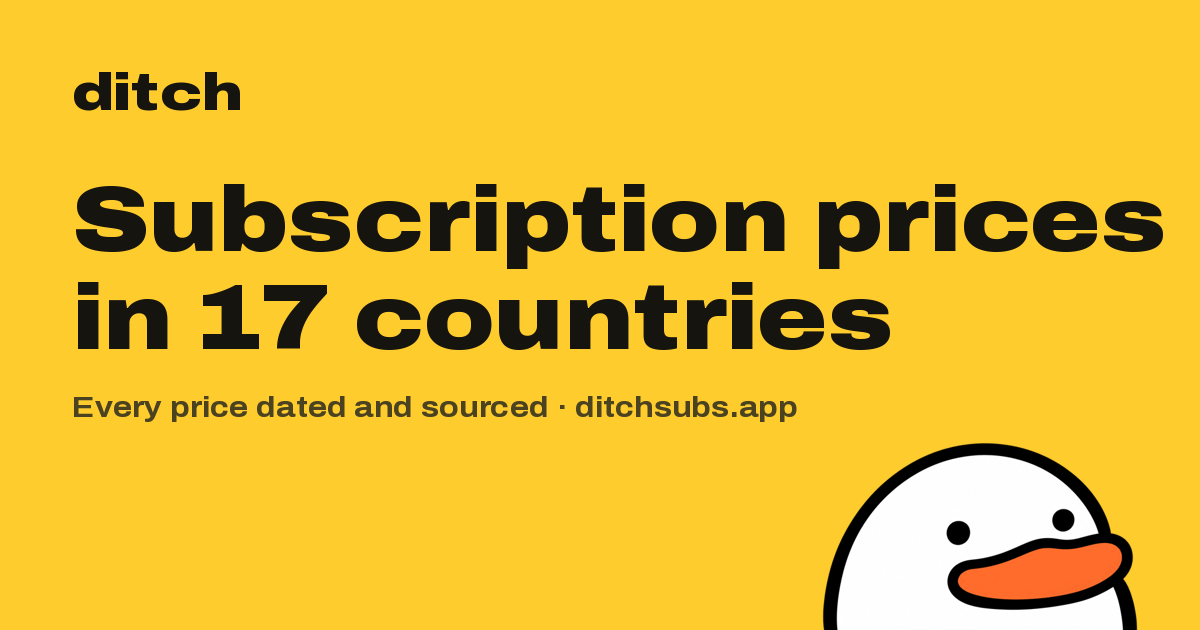
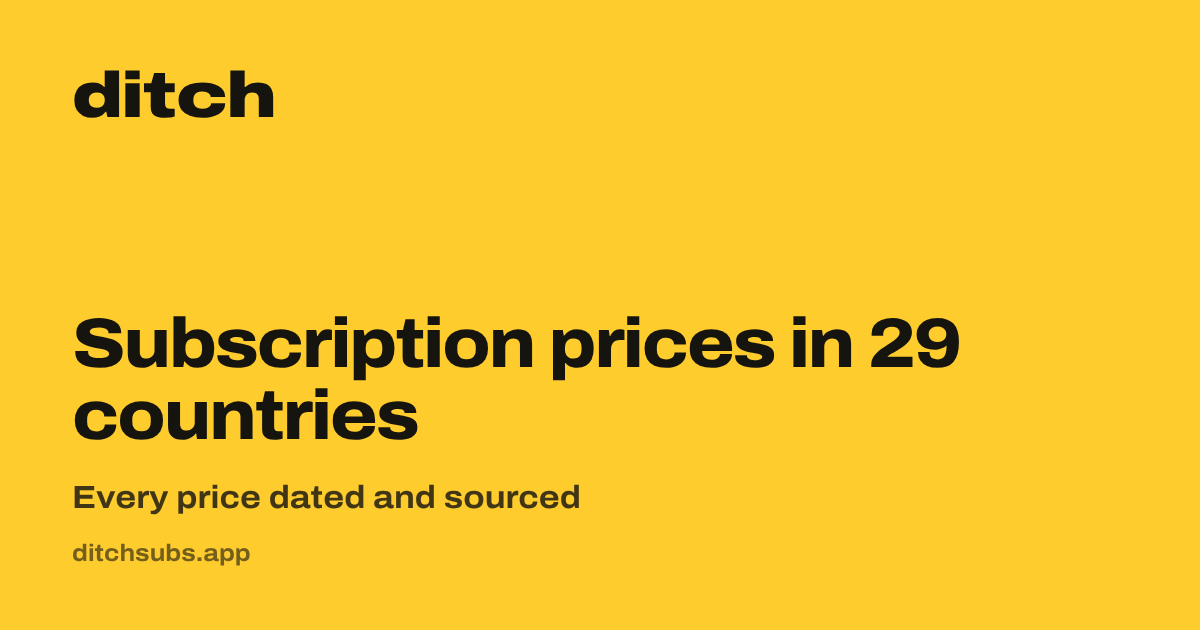
Share image per page, IndexNow, no half-faded text on load
- scripts/og-cards.ts + og.mjs draw a 1200x630 card per comparison, price page and guide from the site's own data
- Pages point og:image and twitter:image at their own card; a test checks every page has one
- IndexNow key + submit script (192 URLs accepted)
- Blocks already on screen skip the scroll fade; hub pages don't fade (Lighthouse accessibility 100)

Claude-Session: https://claude.ai/code/session_01Q8GFjWCZXwnj2nAcxjTkxh

diff --git a/web/scripts/og-cards.ts b/web/scripts/og-cards.ts
@@ -1,0 +1,38 @@
+// Lists one share card per page (comparisons, price pages, cancel guides) for scripts/og.mjs to draw.
+// Run: npx tsx scripts/og-cards.ts > /tmp/cards.json (reads the same data as the site, so numbers always match).
+import { COUNTRIES, priceHubServices, publishedGuides, serviceById, slugOf, verifiedPrices, isExtraPlan, hasLogo } from '../src/lib/data';
+import { formatMoney } from '../src/lib/money';
+import { SERVICE_TOOLS, planLabel } from '../src/lib/tools';
+
+type Card = { file: string; logos: { id: string; logo: boolean; color: string; mono: string }[]; title: string; sub: string; foot: string };
+const lg = (id: string) => { const s = serviceById(id); return { id, logo: hasLogo(id), color: s?.color ?? '#6B6559', mono: s?.mono ?? s?.name.slice(0, 1) ?? '?' }; };
+const us = (id: string) => verifiedPrices(id).find((r) => r.country === 'US');
+const money = (a: number, cur: string, c: string) => formatMoney(a, cur, { country: c });
+const cards: Card[] = [];
+
+for (const t of SERVICE_TOOLS.filter((x) => x.kind === 'vs' || x.kind === 'tiers')) {
+  let sub = '';
+  if (t.kind === 'tiers' && t.s) {
+    const r = us(t.s)!;
+        const a = r.plans.find((p) => p.id === t.ap)!, b = r.plans.find((p) => p.id === t.bp)!;
+    const short = (n: string) => n.replace(/\s*\((monthly|yearly)\)/i, '');
+    sub = `US: ${short(a.name)} ${money(a.amountMinor, r.currency, 'US')} · ${short(b.name)} ${money(b.amountMinor, r.currency, 'US')} a month`;
+  } else if (t.a && t.b) {
+    const pick = (id: string, plan?: string) => { const r = us(id)!; const p = r.plans.find((x) => x.id === plan) ?? r.plans.find((x) => x.default) ?? r.plans[0]; return `${planLabel(serviceById(id)!.name, p.name)} ${money(p.amountMinor, r.currency, 'US')}`; };
+    sub = `US: ${pick(t.a, t.ap)} · ${pick(t.b, t.bp)} a month`;
+  }
+  cards.push({ file: `c/${t.slug}`, logos: (t.kind === 'tiers' ? [t.s!] : [t.a!, t.b!]).map(lg), title: t.name, sub, foot: 'Price and what you get, from each company’s own page' });
+}
+for (const s of priceHubServices()) {
+  const rows = verifiedPrices(s.id).map((r) => ({ ...r, plans: r.plans.filter((p) => !isExtraPlan(s.id, p)) })).filter((r) => r.plans.length);
+  const r = rows.find((x) => x.country === 'US') ?? rows[0];
+  const lo = [...r.plans].filter((p) => p.cycle === 'monthly' && !/student/i.test(p.name)).sort((a, b) => a.amountMinor - b.amountMinor)[0] ?? r.plans[0];
+  const where = r.country === 'US' ? 'in the US' : `in ${COUNTRIES.find((c) => c.code === r.country)?.name}`;
+  cards.push({ file: `p/${slugOf(s.id)}`, logos: [lg(s.id)], title: `${s.name} prices 2026`, sub: `From ${money(lo.amountMinor, r.currency, r.country)} ${lo.cycle === 'yearly' ? 'a year' : 'a month'} ${where}${rows.length > 1 ? ` · ${rows.length} countries` : ''}`, foot: 'Every price dated and sourced' });
+}
+for (const g of publishedGuides()) {
+  cards.push({ file: `g/${slugOf(g.id)}`, logos: [lg(g.id)], title: `How to cancel ${g.name.replace(/\s*\(.*\)$/, '')}`, sub: 'The official steps, checked and dated', foot: 'Every step from the official help page' });
+}
+cards.push({ file: 'prices', logos: [], title: `Subscription prices in ${COUNTRIES.length} countries`, sub: 'Every price dated and sourced', foot: '' });
+cards.push({ file: 'compare', logos: ['chatgpt-plus', 'claude-pro', 'netflix', 'spotify'].map(lg), title: 'Compare subscriptions', sub: 'Price and what you get, side by side', foot: '' });
+process.stdout.write(JSON.stringify(cards));

diff --git a/web/src/app/tools/[slug]/page.tsx b/web/src/app/tools/[slug]/page.tsx
@@ -7,7 +7,7 @@ import { WhatYouGet } from '@/components/WhatYouGet';
 import { formatMoney } from '@/lib/money';
 import { inCountry, serviceById, verifiedPrices } from '@/lib/data';
 import { allPoints, countryList, countryName, planLabel, SERVICE_TOOLS, yearlyPlanId, type Pt } from '@/lib/tools';
-import { fitDesc, pageTitle, og } from '@/lib/site';
+import { fitDesc, pageTitle, og, shareImage } from '@/lib/site';
 import { COUNTRIES } from '@/lib/data';
 
 export function generateStaticParams() {
@@ -20,7 +20,14 @@ export async function generateMetadata({ params }: PageProps<'/tools/[slug]'>): 
   const t = tool((await params).slug);
   if (!t) return {};
   const ex = example(t, allPoints());
-  return { title: pageTitle(t.meta), description: fitDesc(ex ?? t.desc, t.kind === 'vs' || t.kind === 'tiers' ? (t.facts?.length ? 'What each plan includes, from each company’s own page.' : 'Every plan side by side, for your country.') : `Free, with prices for ${COUNTRIES.length} countries.`, 'Prices come from each service’s own page.', 'Runs in your browser.'), alternates: { canonical: `/tools/${t.slug}` }, openGraph: og(`/tools/${t.slug}`) };
+  return { title: pageTitle(t.meta), description: fitDesc(ex ?? t.desc, t.kind === 'vs' || t.kind === 'tiers' ? (t.facts?.length ? 'What each plan includes, from each company’s own page.' : 'Every plan side by side, for your country.') : `Free, with prices for ${COUNTRIES.length} countries.`, 'Prices come from each service’s own page.', 'Runs in your browser.'), alternates: { canonical: `/tools/${t.slug}` }, ...pairShare(t) };
+}
+
+/** Comparisons get their own share card (logos + US prices); other tools use the site card. */
+function pairShare(t: (typeof SERVICE_TOOLS)[number]) {
+  if (t.kind !== 'vs' && t.kind !== 'tiers') return { openGraph: og(`/tools/${t.slug}`) };
+  const { images, twitter } = shareImage(`c/${t.slug}`, `${t.name}: price and what you get`, 'compare');
+  return { openGraph: { ...og(`/tools/${t.slug}`, 'compare'), images }, twitter };
 }
 
 const m = (p: Pt, a = p.a) => formatMoney(a, p.cur, { country: p.c });

diff --git a/web/src/app/prices/[slug]/page.tsx b/web/src/app/prices/[slug]/page.tsx
@@ -11,7 +11,7 @@ import { PriceGrid, type GridCol, type GridRow } from '@/components/PriceGrid';
 import { priceText } from '@/lib/priceText';
 import { COUNTRIES, COUNTRY, dateRange, inCountry, priceChanges, defaultPlan, formatDate, host, guideById, isAppStorePrice, isExtraPlan, neighbours, priceHubServices, pubDates, serviceById, verifiedPrices, type PriceRow, idOf, inWhere, slugOf } from '@/lib/data';
 import { CYCLE_WORD, formatMoney, monthlyMinor } from '@/lib/money';
-import { COMPANY, SITE, SUPPORT_EMAIL, fitDesc, pageTitle } from '@/lib/site';
+import { COMPANY, SITE, SUPPORT_EMAIL, fitDesc, pageTitle, shareImage } from '@/lib/site';
 import { JsonLd } from '@/components/JsonLd';
 
 export function generateStaticParams() {
@@ -118,12 +118,13 @@ export async function generateMetadata({ params }: PageProps<'/prices/[slug]'>):
   const rows = core(id);
   if (!s || !priceHubServices().some((x) => x.id === s.id)) return {};
   const latest = rows.map((r) => r.checked).sort().pop()!;
+  const share = shareImage(`p/${slugOf(s.id)}`, `${s.name} prices ${latest.slice(0, 4)}`, 'prices');
   return {
     title: pageTitle(titleFor(s.name, latest.slice(0, 4), rows)),
     description: fitDesc(`${summary(s.name, rows)} Main plans ${inWhere(rows)}, checked ${dateRange(rows.map((r) => r.checked))}.`, `Every price from ${s.name}’s own page.`, guideById(s.id) ? `Plus how to cancel ${s.name}.` : ''),
     alternates: { canonical: `/prices/${slugOf(s.id)}` },
-    openGraph: { title: `${s.name} prices ${inWhere(rows)}`, url: `/prices/${slugOf(s.id)}`, type: 'article', siteName: 'Ditch: Subscription Tracker', locale: 'en_US', images: [{ url: '/og/prices.png', width: 1200, height: 630, alt: `Subscription prices in ${COUNTRIES.length} countries` }] },
-    twitter: { card: 'summary_large_image', images: ['/og/prices.png'] },
+    openGraph: { title: `${s.name} prices ${inWhere(rows)}`, url: `/prices/${slugOf(s.id)}`, type: 'article', siteName: 'Ditch: Subscription Tracker', locale: 'en_US', images: share.images },
+    twitter: share.twitter,
   };
 }
 

diff --git a/web/src/lib/site.ts b/web/src/lib/site.ts
@@ -1,14 +1,26 @@
+import OG_LIST from '@/data/og.json';
 export const SITE = 'https://ditchsubs.app';
 export const BRAND = 'Ditch: Subscription Tracker';
 
 /** Open Graph for a page: its own og:url plus the site defaults (a page's openGraph replaces the layout's, so this carries them). */
-export const og = (path: string, image: 'home' | 'cancel' | 'prices' = 'home') => ({
+const OG_BASE: Record<string, string> = { home: '/og/home.png', cancel: '/og/cancel.png', prices: '/og/prices.jpg', compare: '/og/compare.jpg' };
+export const og = (path: string, image: 'home' | 'cancel' | 'prices' | 'compare' = 'home') => ({
   url: path,
   siteName: 'Ditch: Subscription Tracker',
   type: 'website' as const,
   locale: 'en_US',
-  images: [{ url: `/og/${image}.png`, width: 1200, height: 630, alt: 'Ditch: Subscription Tracker. Ditch it before it renews.' }],
+  images: [{ url: OG_BASE[image], width: 1200, height: 630, alt: 'Ditch: Subscription Tracker. Ditch it before it renews.' }],
 });
+
+/**
+ * A page's own share image (Nov 15, SEO skill: a unique 1200×630 card per page), drawn by scripts/og.mjs with the
+ * page's real logos and prices. Falls back to the section card if the image hasn't been drawn yet.
+ * Returns both the Open Graph and the X (Twitter) image, so every app shows the same card.
+ */
+export function shareImage(file: string, alt: string, fallback: 'home' | 'cancel' | 'prices' | 'compare') {
+  const url = (OG_LIST as string[]).includes(file) ? `/og/${file}.jpg` : OG_BASE[fallback];
+  return { images: [{ url, width: 1200, height: 630, alt }], twitter: { card: 'summary_large_image' as const, images: [url] } };
+}
 
 /** Meta descriptions: the first sentence always, then each extra sentence only while the whole stays within 160 characters. */
 export const fitDesc = (first: string, ...more: string[]) => more.filter(Boolean).reduce((acc, p) => (acc.length + 1 + p.length <= 160 ? `${acc} ${p}` : acc), first);

diff --git a/web/src/app/cancel/[slug]/page.tsx b/web/src/app/cancel/[slug]/page.tsx
@@ -11,7 +11,7 @@ import { GuideFeedback } from '@/components/guide/GuideFeedback';
 import { PayTabs, type PayTab } from '@/components/guide/PayTabs';
 import { StepArt, stepUrl, tapLabel } from '@/components/guide/StepArt';
 import { APPLE_SOURCE, formatDate, freshness, guideById, neighbours, priceFor, priceHubServices, pubDates, publicNotes, publishedGuides, serviceById, idOf, slugOf } from '@/lib/data';
-import { COMPANY, SITE, SUPPORT_EMAIL, pageTitle } from '@/lib/site';
+import { COMPANY, SITE, SUPPORT_EMAIL, pageTitle, shareImage } from '@/lib/site';
 import { JsonLd } from '@/components/JsonLd';
 
 
@@ -48,8 +48,8 @@ export async function generateMetadata({ params }: PageProps<'/cancel/[slug]'>):
     title: guideTitle(g),
     description: desc.length > 158 ? `${desc.slice(0, 155).replace(/\s+\S*$/, '')}…` : desc,
     alternates: { canonical: `/cancel/${slugOf(g.id)}` },
-    openGraph: { title: `How to cancel ${g.name}`, url: `/cancel/${slugOf(g.id)}`, type: 'article', siteName: 'Ditch: Subscription Tracker', locale: 'en_US', images: [{ url: '/og/cancel.png', width: 1200, height: 630, alt: 'How to cancel any subscription' }] },
-    twitter: { card: 'summary_large_image', images: ['/og/cancel.png'] },
+    openGraph: { title: `How to cancel ${g.name}`, url: `/cancel/${slugOf(g.id)}`, type: 'article', siteName: 'Ditch: Subscription Tracker', locale: 'en_US', images: shareImage(`g/${slugOf(g.id)}`, `How to cancel ${g.name}`, 'cancel').images },
+    twitter: shareImage(`g/${slugOf(g.id)}`, `How to cancel ${g.name}`, 'cancel').twitter,
     robots: freshness(g.checkedOn) === 'expired' ? { index: false } : undefined,
   };
 }

diff --git a/web/src/components/Reveal.tsx b/web/src/components/Reveal.tsx
@@ -20,6 +20,8 @@ export function Reveal() {
     const groups = new Map<Element | null, number>();
     for (const el of auto) {
       if (el.hasAttribute('data-reveal')) continue;
+      // Hub pages (/tools, /compare) are lists to scan: they show at once, no fade (Nov 15).
+      if (el.closest('.hubpage')) continue;
       // On screen already: mark it shown first, so it never blinks out and back.
       if (el.getBoundingClientRect().top < vh * 0.95) el.classList.add('is-in');
       const n = groups.get(el.parentElement) ?? 0;
@@ -33,7 +35,11 @@ export function Reveal() {
     const sda = typeof CSS !== 'undefined' && CSS.supports('animation-timeline: view()');
     document.documentElement.classList.toggle('sda', sda);
     const special = '.stamp, .big-notif, .pg';
-    if (sda) document.querySelectorAll<HTMLElement>('[data-reveal]:not(.is-in)').forEach((e) => !e.matches(special) && e.classList.add('is-in'));
+    if (sda) {
+      document.querySelectorAll<HTMLElement>('[data-reveal]:not(.is-in)').forEach((e) => !e.matches(special) && e.classList.add('is-in'));
+      // Already on screen when the page opens: shown at once, never half-faded at the bottom edge (Nov 15, Lighthouse contrast).
+      document.querySelectorAll<HTMLElement>('[data-reveal]').forEach((e) => e.getBoundingClientRect().top < vh && e.classList.add('sda-skip'));
+    }
     const els = Array.from(document.querySelectorAll<HTMLElement>('[data-reveal]:not(.is-in)'));
     if (!('IntersectionObserver' in window)) {
       els.forEach((e) => e.classList.add('is-in'));

diff --git a/web/src/lib/compare.test.ts b/web/src/lib/compare.test.ts
@@ -33,3 +33,20 @@ describe('comparison pages quote current prices', () => {
     });
   }
 });
+
+import { existsSync } from 'node:fs';
+import { join } from 'node:path';
+
+import OG from '@/data/og.json';
+import { priceHubServices, publishedGuides, slugOf } from './data';
+
+/** Every comparison, price page and guide has its own share image on disk (npm run og redraws them). */
+describe('share images', () => {
+  const want = [
+    ...SERVICE_TOOLS.filter((t) => t.kind === 'vs' || t.kind === 'tiers').map((t) => `c/${t.slug}`),
+    ...priceHubServices().map((s) => `p/${slugOf(s.id)}`),
+    ...publishedGuides().map((g) => `g/${slugOf(g.id)}`),
+  ];
+  it('every page has one', () => expect(want.filter((f) => !(OG as string[]).includes(f))).toEqual([]));
+  it('every listed image exists', () => expect((OG as string[]).filter((f) => !existsSync(join(__dirname, '../../public/og', `${f}.jpg`)))).toEqual([]));
+});

diff --git a/web/src/app/price-changes/page.tsx b/web/src/app/price-changes/page.tsx
@@ -15,7 +15,7 @@ const YEAR = new Date().getFullYear();
 export const metadata: Metadata = {
   title: pageTitle(`Subscription price increases ${YEAR}: every rise, dated`),
   description: 'Netflix, Spotify, Disney+, YouTube and more: every subscription price rise we could confirm since 2024, with the old and new price, the date and the source.',
-  alternates: { canonical: '/price-changes' }, openGraph: og('/price-changes', 'prices'),
+  alternates: { canonical: '/price-changes' }, twitter: { card: 'summary_large_image', images: ['/og/prices.jpg'] }, openGraph: og('/price-changes', 'prices'),
 };
 
 const per = (cy: string) => (cy === 'yearly' ? 'a year' : cy === 'quarterly' ? 'every 3 months' : cy === 'weekly' ? 'a week' : 'a month');

diff --git a/web/src/app/prices/page.tsx b/web/src/app/prices/page.tsx
@@ -8,7 +8,7 @@ import { JsonLd } from '@/components/JsonLd';
 export const metadata: Metadata = {
   title: pageTitle(`Subscription prices ${new Date().getFullYear()}: ${priceHubServices().length} services, ${COUNTRIES.length} countries`),
   description: 'What Netflix, Spotify, Disney+, ChatGPT and more cost in the US, UK, Canada, Australia, Europe, India and the Middle East. Every plan, local money, dated.',
-  alternates: { canonical: '/prices' }, openGraph: og('/prices', 'prices'),
+  alternates: { canonical: '/prices' }, twitter: { card: 'summary_large_image', images: ['/og/prices.jpg'] }, openGraph: og('/prices', 'prices'),
 };
 
 export default function PricesIndex() {

diff --git a/web/src/app/globals.css b/web/src/app/globals.css
@@ -1897,6 +1897,7 @@ main > :first-child, main > :first-child > :first-child { scroll-margin-top: 200
     animation: sdaIn linear both; animation-timeline: view(); animation-range: cover 0px cover 160px;
   }
   @keyframes sdaIn { from { opacity: 0; transform: translateY(18px); } to { opacity: 1; transform: none; } }
+  .sda [data-reveal].sda-skip { animation: none; opacity: 1; transform: none; }
 }
 
 /* "What you get" on comparison pages (Nov 15). A real table; on phones each row stacks: label, then the two answers side by side. */

diff --git a/web/src/app/compare/page.tsx b/web/src/app/compare/page.tsx
@@ -10,7 +10,8 @@ export const metadata: Metadata = {
   title: pageTitle('Subscription comparisons: price and plans'),
   description: 'ChatGPT vs Claude, Spotify vs Apple Music, Netflix vs Hulu, Claude Pro vs Max and more. Real prices and what each plan includes, from each company’s own page.',
   alternates: { canonical: '/compare' },
-  openGraph: og('/compare'),
+  openGraph: og('/compare', 'compare'),
+  twitter: { card: 'summary_large_image', images: ['/og/compare.jpg'] },
 };
 
 /**

diff --git a/docs/STATUS.md b/docs/STATUS.md
@@ -10,6 +10,7 @@ _Update this at the end of every session._
   - Each page: price answer first, live price tool, a sourced "What you get" table ("Not stated" when the official page doesn't say), computed "Good to know", price by country, 3 searched questions. A test fails the build if a price quoted in an answer stops matching our checked prices.
   - Full US/UK tiers for AI, video, music, gaming, Apple and more (Claude Max and Ultra, ChatGPT Pro 100/200/500, Gemini Ultra 5x/20x, Disney+/Hulu bundles, Spotify Student, Deezer website prices…). Price pages put bundles and live TV in their own section.
   - **Grok (owner, Nov 15: use the website plans):** US Grok prices are now xAI's website plans (Plus $8, Premium $30, Super $100, Ultra $200; yearly $80/$300/$1,000/$2,000; grok.com's first-month 50% offer left out). Other countries stay on the iPhone app's SuperGrok list, and the price page says so. The site calls the service "Grok". ChatGPT/Claude/Gemini vs Grok are live (vs Grok Premium), plus Grok Plus vs Premium and Grok Premium vs Super. 43 comparison pages in total.
+  - **AI search and SEO pass (Nov 15, final):** every comparison, price page and cancel guide has its own share image (1200×630, real logos and US prices; `npm run og` redraws them after price changes, and a test fails if one is missing). IndexNow is set up (`node web/scripts/indexnow.mjs` after a deploy; 192 URLs accepted Nov 15), which tells Bing, and through it ChatGPT search and Copilot, about changes within minutes. Fade-ins show at once for anything already on screen, and hub pages (/tools, /compare) don't fade. Live: 192 pages, SEO audit 0 errors, 0 warnings; Lighthouse accessibility, best practices and SEO 100 on every page checked, performance 92–98 on phones and 98–99 on desktop; 0 layout issues at 320, 390 and 1280 px.
   - **Waiting:** 3 YouTube pages wait for a US YouTube Premium price (the website blocks our cloud browser). Duolingo prices: the App Store list doesn't say which price is which plan.
   - Data notes: Deezer US moved to website prices ($11.99, was the $14.99 App Store price). Audible's top US plan now uses id `premium` like the other countries. Prime Video Ultra ($4.99) is quoted from Amazon's news page but isn't in the price table yet.
 - ✅ **Nov 15 (live): 29 countries and 59 cancel guides.**
